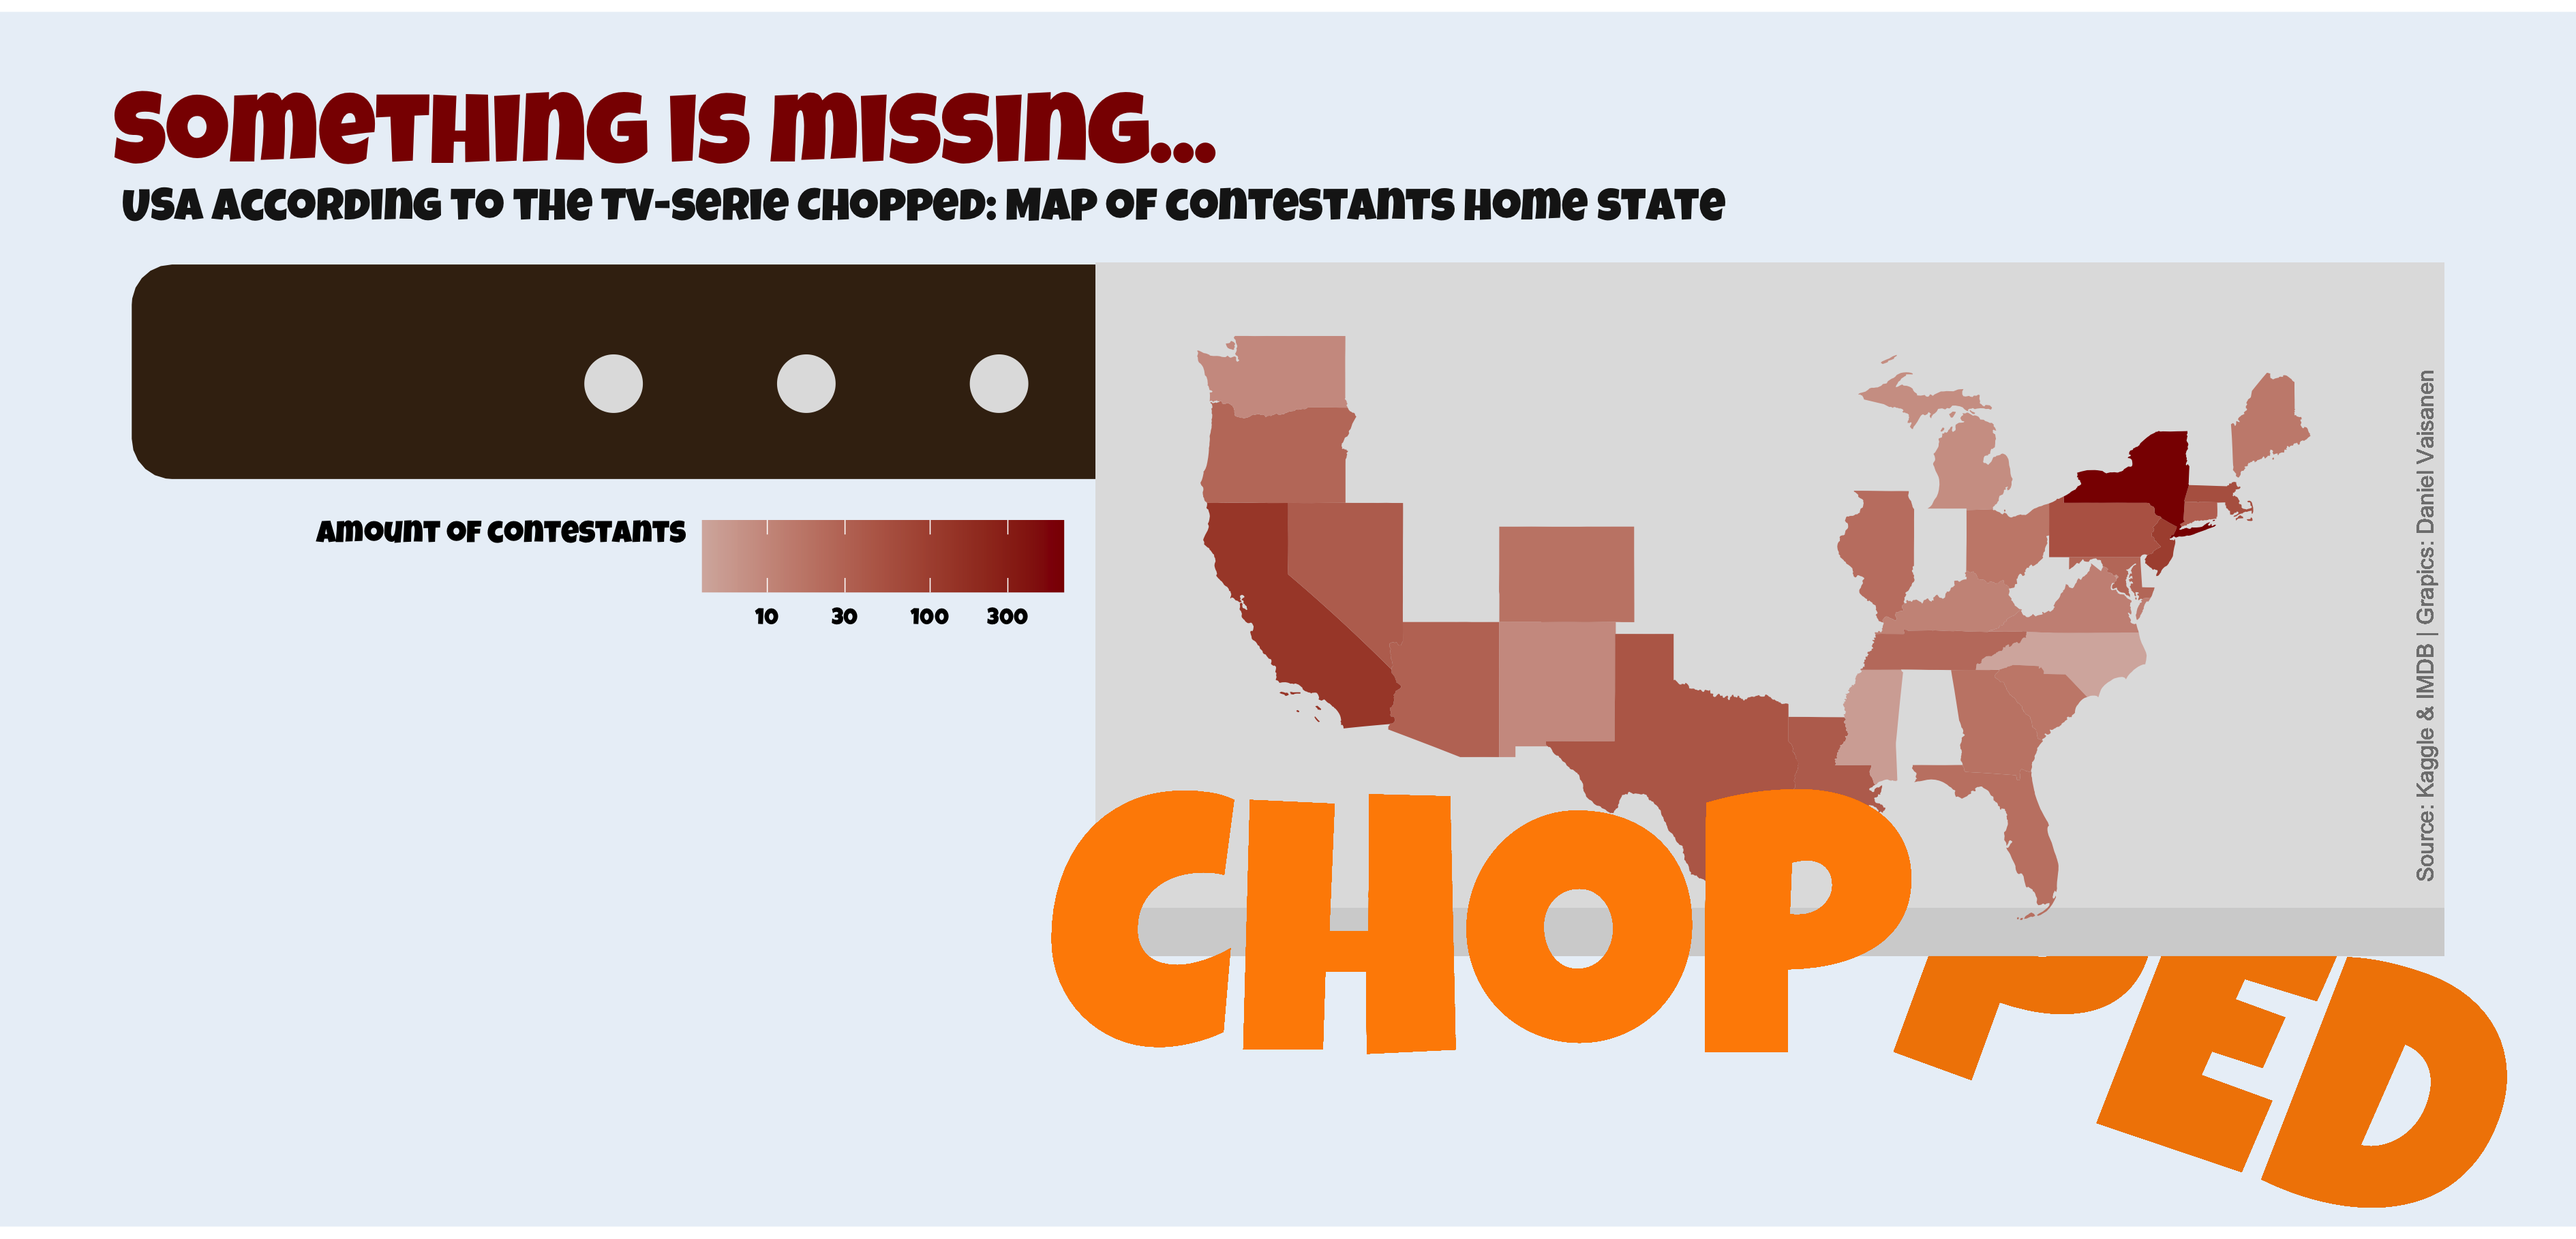
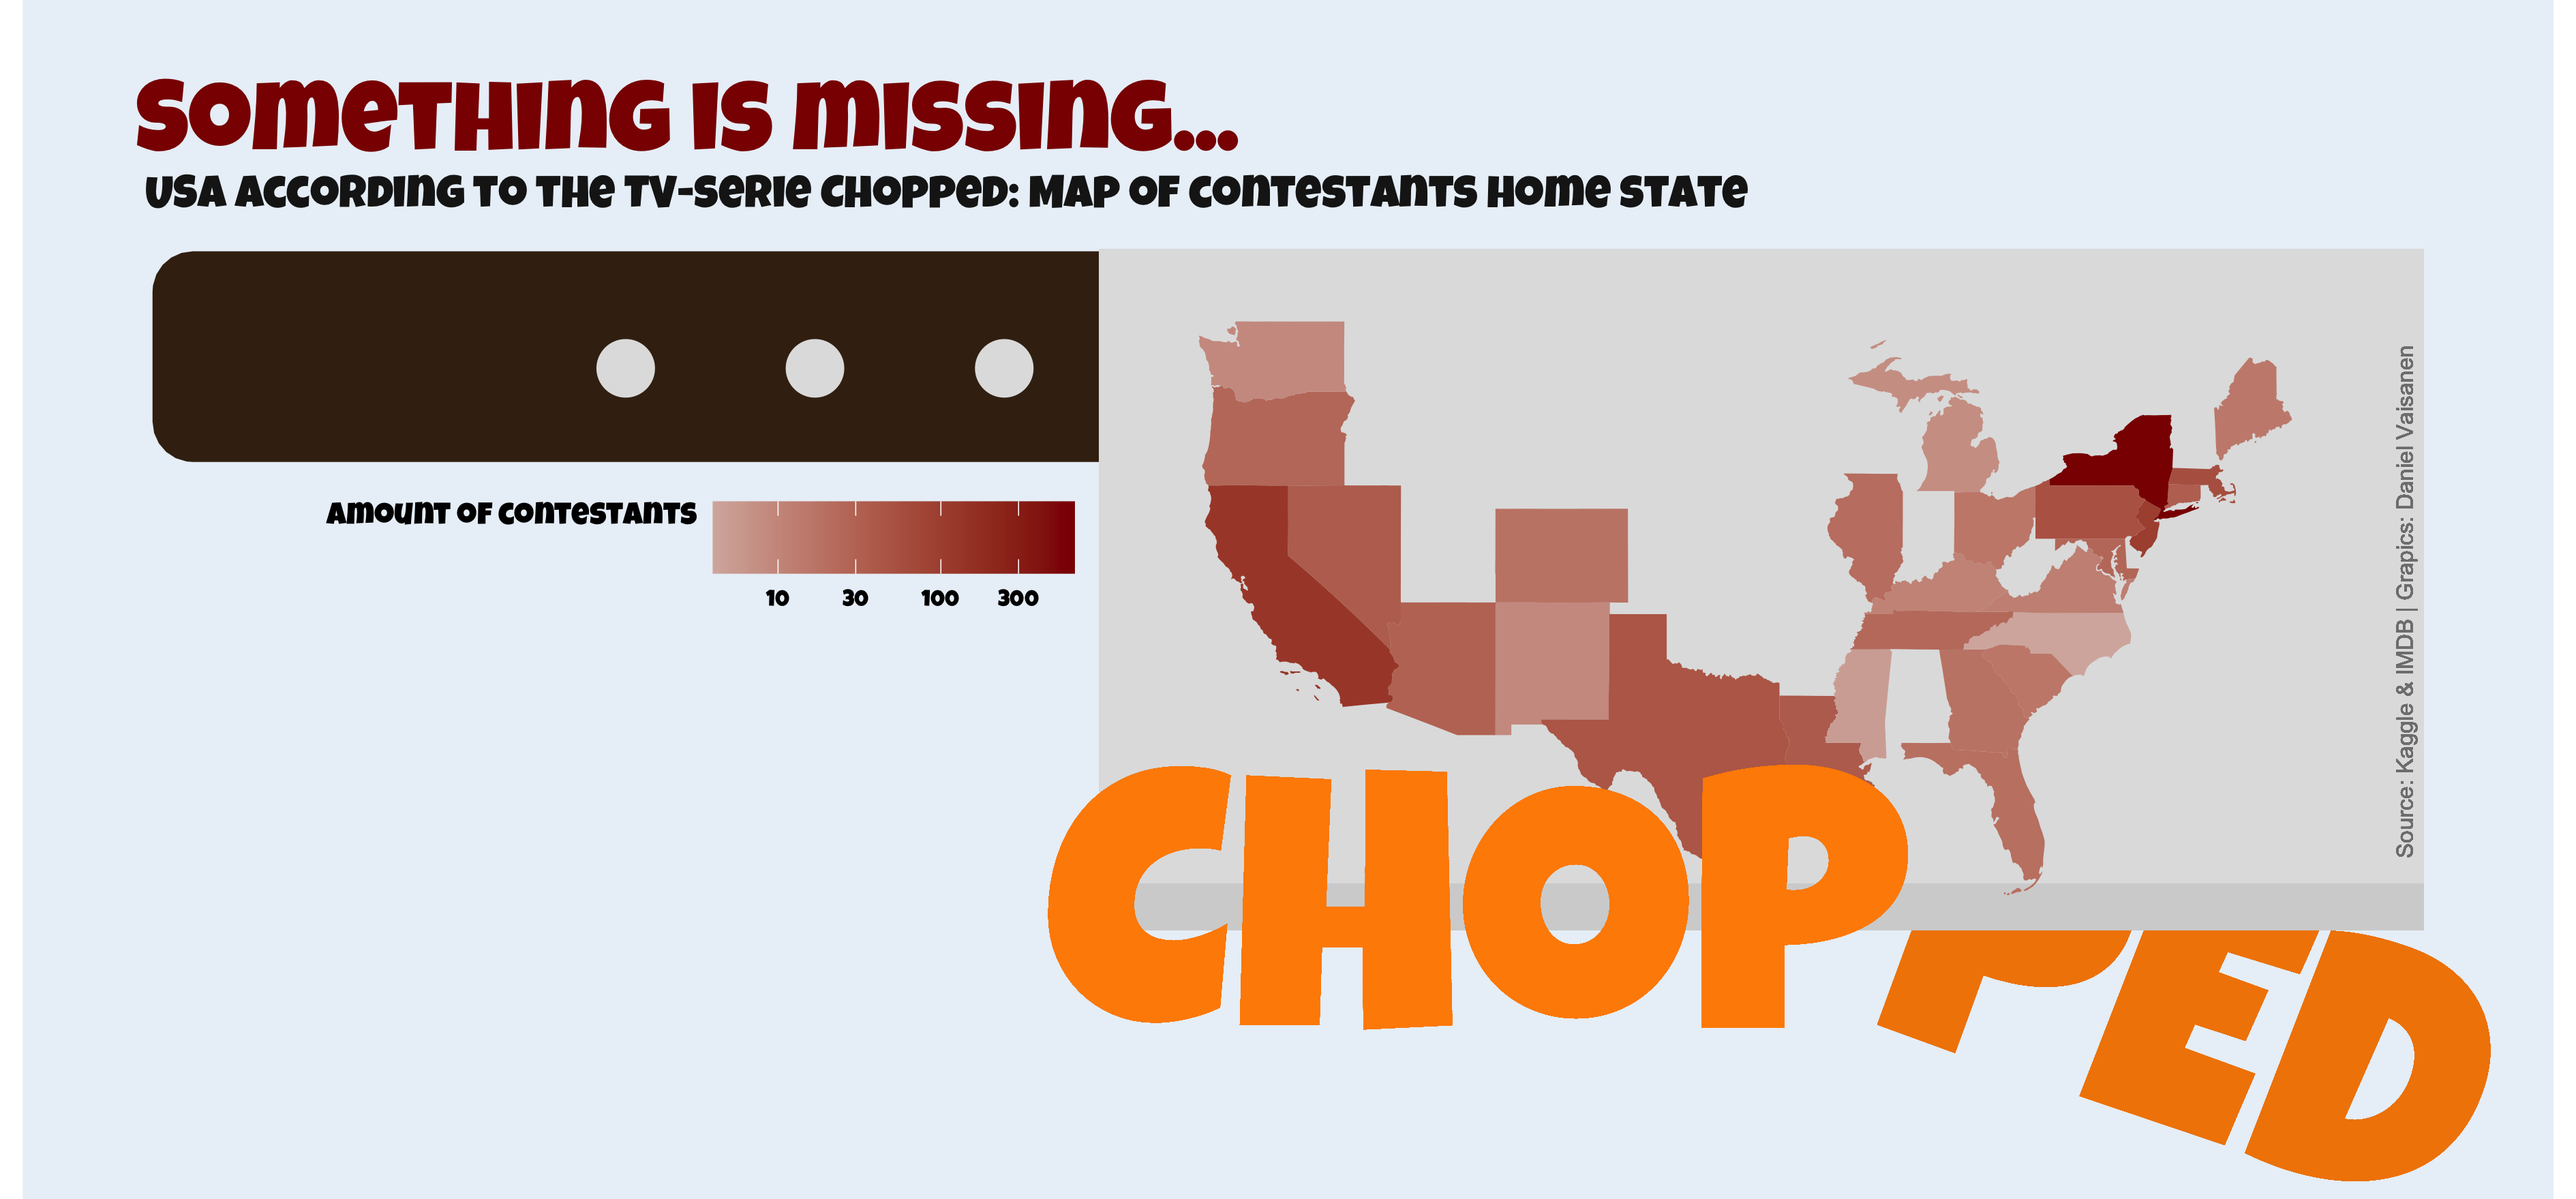
second

diff --git a/README.md b/README.md
@@ -3,11 +3,15 @@
 
 <a href='https://github.com/rfordatascience/tidytuesday' target='_blank'><img src='https://raw.githubusercontent.com/rfordatascience/tidytuesday/master/static/tt_logo.png' align="center"  /></a>
 
-## week 34 -2020 🌷
+## week 35 -2020 🔪
+
+<a href='2020/week_35_chopped/chopped.R' target='_blank'><img src="2020/week_35_chopped/chopped.png" align="center"/></a>
+
+## week 34 -2020 🌸
 
 <a href='2020/week_34_plants_in_danger/plants_in_danger.R' target='_blank'><img src="2020/week_34_plants_in_danger/plants.png" align="center"/></a>
 
-## week 33 -2020 🏺
+## week 33 -2020 🏹
 
 <a href='2020/week_33/avatar.R' target='_blank'><img src="2020/week_33/avatar.png" align="center"/></a>
 
